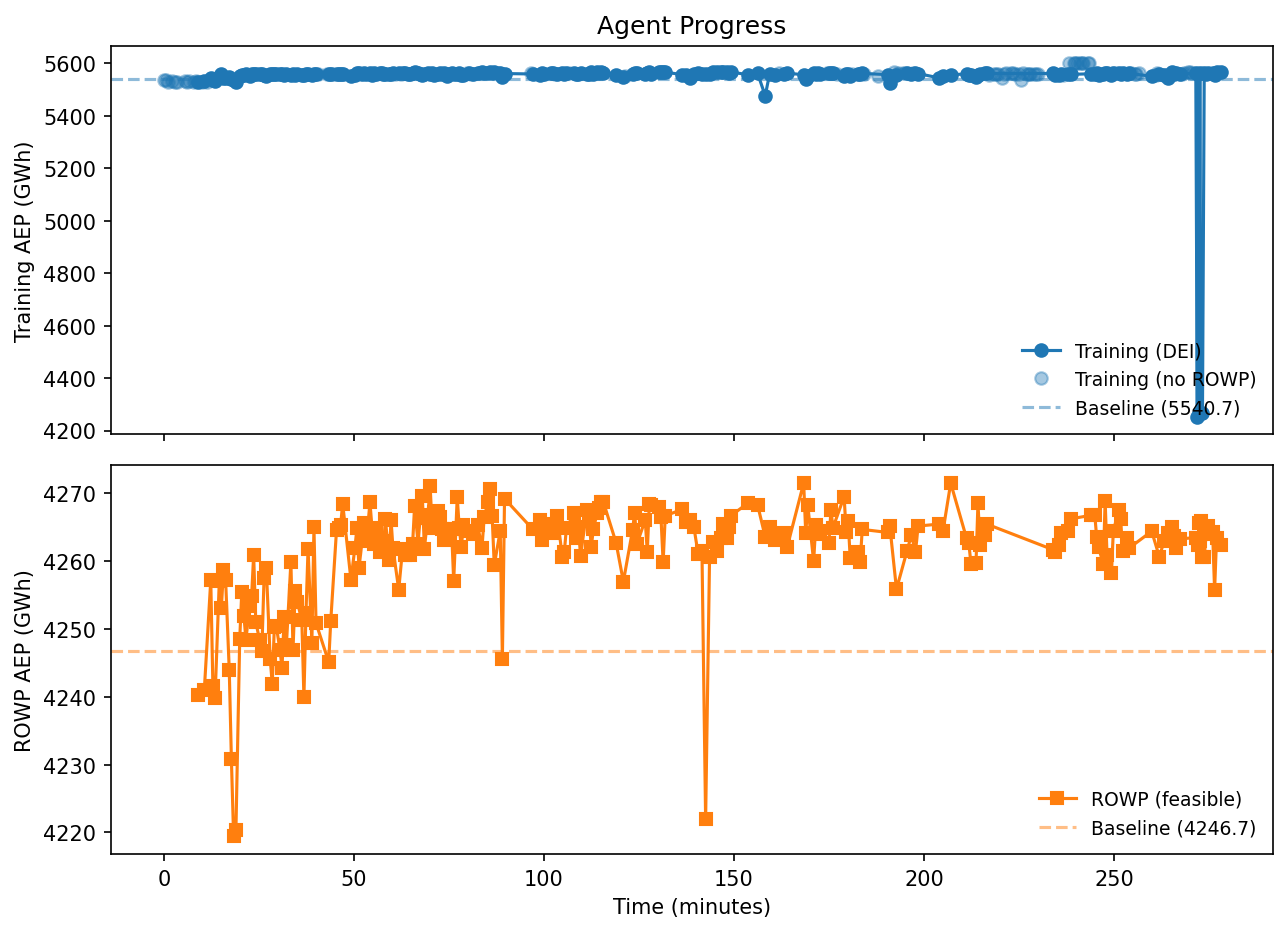
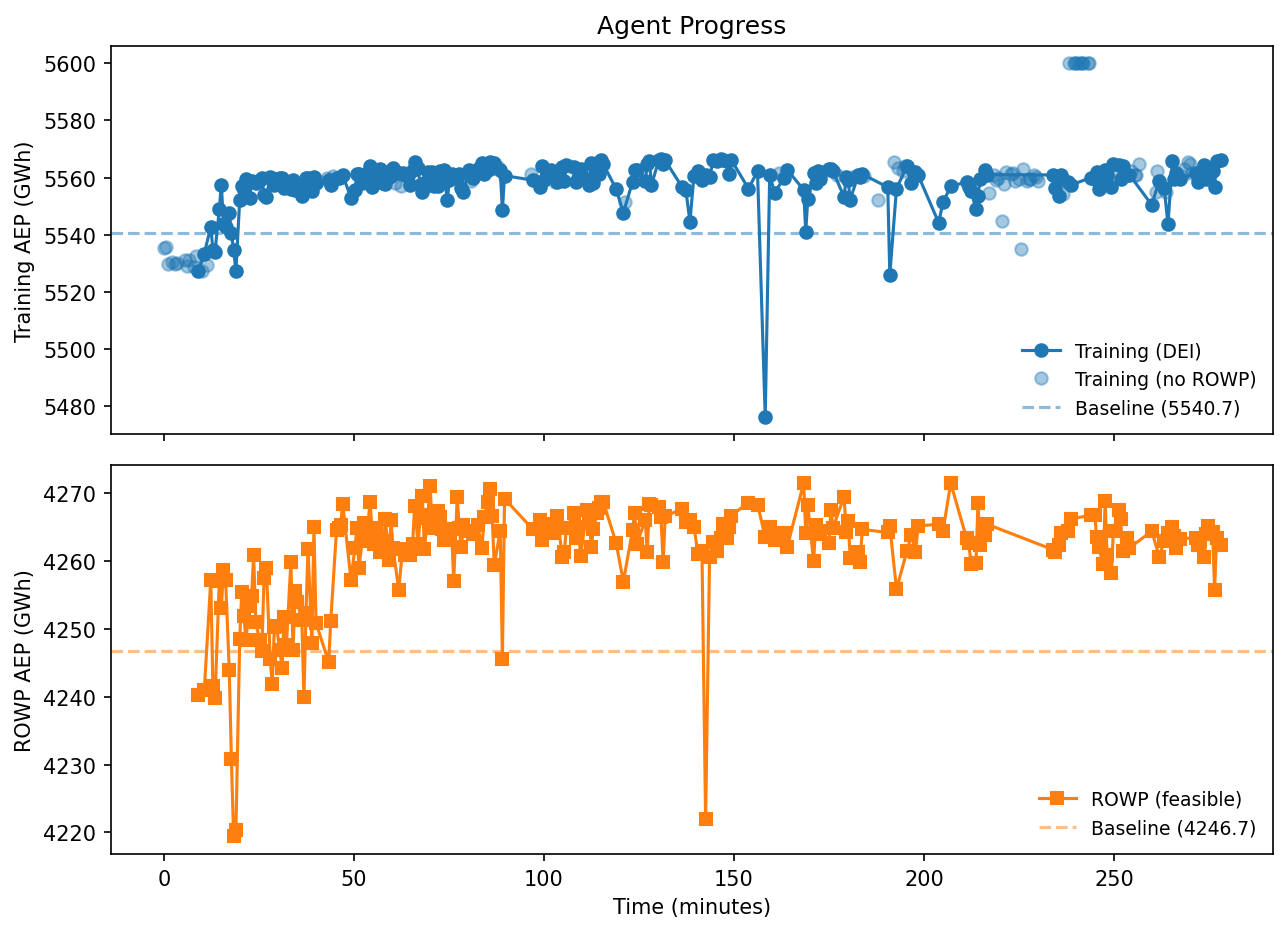
Fix progress plot: filter outlier training AEPs from ROWP backfill

Changed region(s): [[0.1242, 0.0622, 0.9627, 0.4667], [0.0311, 0.0933, 0.0932, 0.4667]]

diff --git a/plot_progress.py b/plot_progress.py
@@ -44,8 +44,13 @@ def plot(log_path, baselines_path="results/baselines.json",
         pass
 
     # Extract successful attempts with both train and ROWP scores
-    paired = [e for e in log if "train_aep" in e and "rowp_aep" in e]
-    train_only = [e for e in log if "train_aep" in e and "rowp_aep" not in e]
+    # Filter out entries where train_aep is suspiciously low (e.g. ROWP AEP
+    # accidentally logged as training AEP from backfill scoring)
+    min_train = train_bl * 0.9 if train_bl > 0 else 0
+    paired = [e for e in log if "train_aep" in e and "rowp_aep" in e
+              and e["train_aep"] > min_train]
+    train_only = [e for e in log if "train_aep" in e and "rowp_aep" not in e
+                  and e["train_aep"] > min_train]
     errors = [e for e in log if "error" in e]
 
     if not paired and not train_only:
